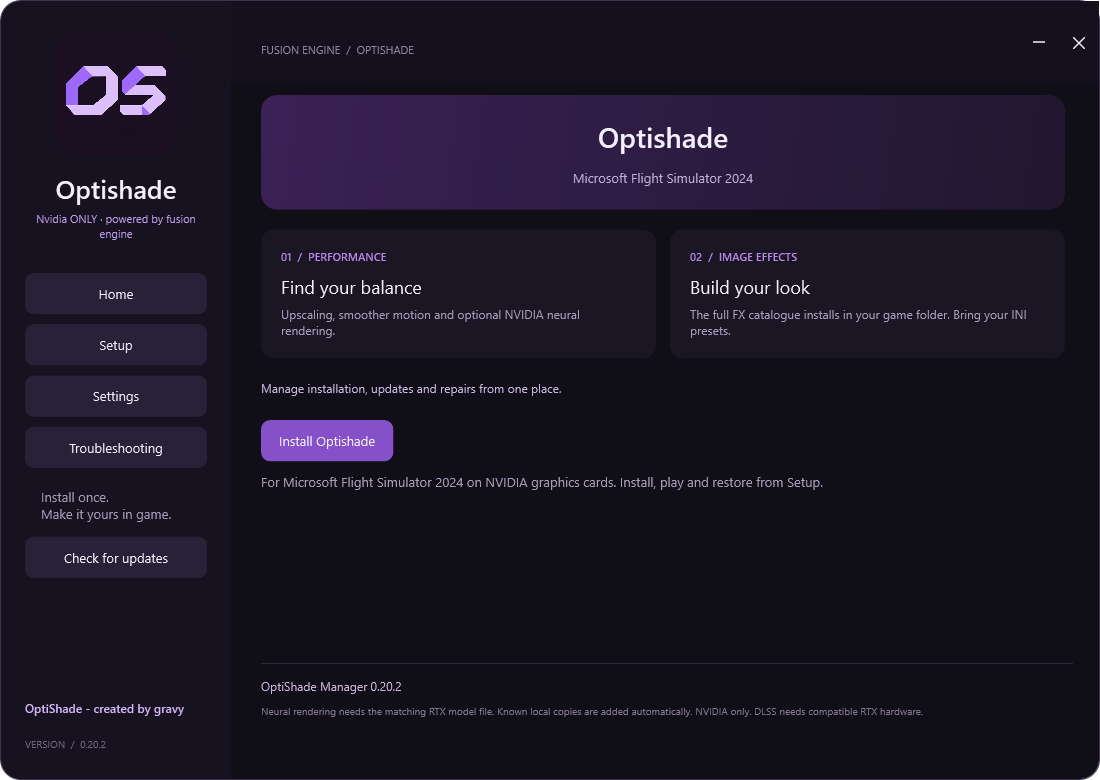
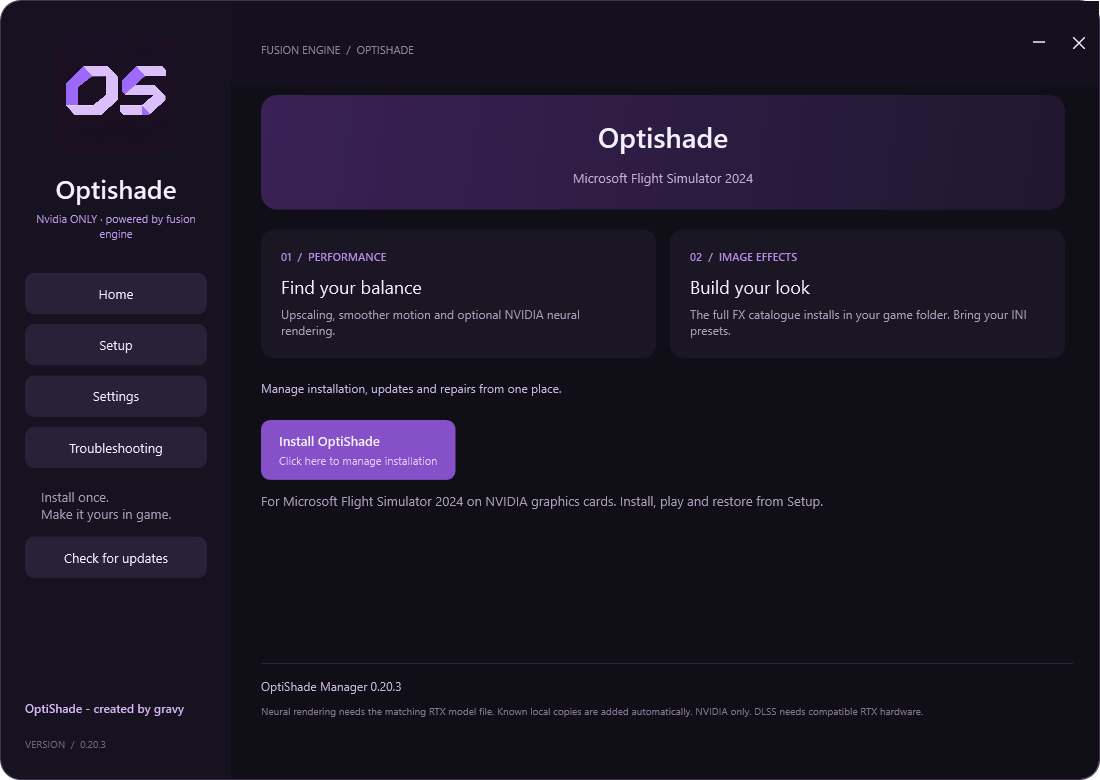
Release 0.20.3: Home installation status and recurring in-game update notices

Changed region(s): [[0.2164, 0.5231, 0.7418, 0.6462]]

diff --git a/installer/manager.xaml b/installer/manager.xaml
@@ -32,14 +32,14 @@
     <StackPanel DockPanel.Dock="Bottom" VerticalAlignment="Bottom">
      <TextBlock Text="OptiShade - created by gravy" Foreground="#D4B7F9" FontWeight="SemiBold" FontSize="12"/>
      
-     <TextBlock Text="VERSION  /  0.20.2" Foreground="#71657F" FontSize="10" Margin="0,22,0,0"/>
+     <TextBlock Text="VERSION  /  0.20.3" Foreground="#71657F" FontSize="10" Margin="0,22,0,0"/>
     </StackPanel>
     <Grid/>
    </DockPanel>
   </Border>
   <Grid Grid.Column="1" Margin="30,20,26,24">
    <Grid.RowDefinitions><RowDefinition Height="64"/><RowDefinition Height="*"/><RowDefinition Height="92"/></Grid.RowDefinitions>
-   <Grid x:Name="TitleBar" Margin="-30,-20,-26,0" Background="#15101D" Cursor="SizeAll" ToolTip="Drag here to move OptiShade"><TextBlock Text="FUSION ENGINE  /  OPTISHADE" Margin="30,12,0,0" Foreground="#91849F" FontSize="11" VerticalAlignment="Center"/><StackPanel Orientation="Horizontal" HorizontalAlignment="Right"><Button x:Name="Minimize" Cursor="Arrow" Background="Transparent" Padding="14,12" ToolTip="Minimize"><Path Data="M 0,5 L 12,5" Stroke="#F3EFFB" StrokeThickness="1.5" Width="12" Height="12"/></Button><Button x:Name="Close" Cursor="Arrow" Background="Transparent" Padding="14,12" ToolTip="Close"><Path Data="M 0,0 L 12,12 M 12,0 L 0,12" Stroke="#F3EFFB" StrokeThickness="1.5" Width="12" Height="12"/></Button></StackPanel></Grid>
+   <Grid x:Name="TitleBar" Margin="-30,-20,-26,0" Background="#15101D" Cursor="SizeAll"><TextBlock Text="FUSION ENGINE  /  OPTISHADE" Margin="30,12,0,0" Foreground="#91849F" FontSize="11" VerticalAlignment="Center"/><StackPanel Orientation="Horizontal" HorizontalAlignment="Right"><Button x:Name="Minimize" Cursor="Arrow" Background="Transparent" Padding="14,12" ToolTip="Minimize"><Path Data="M 0,5 L 12,5" Stroke="#F3EFFB" StrokeThickness="1.5" Width="12" Height="12"/></Button><Button x:Name="Close" Cursor="Arrow" Background="Transparent" Padding="14,12" ToolTip="Close"><Path Data="M 0,0 L 12,12 M 12,0 L 0,12" Stroke="#F3EFFB" StrokeThickness="1.5" Width="12" Height="12"/></Button></StackPanel></Grid>
    <Grid Grid.Row="1">
     <ScrollViewer x:Name="HomePage" VerticalScrollBarVisibility="Auto"><StackPanel Margin="0,10,8,16">
      <Border CornerRadius="16" Padding="26,23" Margin="0,0,0,20">
@@ -52,7 +52,7 @@
      </Grid>
      <TextBlock x:Name="Hardware" Text="Checking your hardware..." Foreground="#C9B6DF" FontSize="12" Margin="0,0,0,12"/>
 
-     <Button x:Name="OpenLibrary" Content="Install Optishade" Background="#8650C8" HorizontalAlignment="Left" Margin="0,12,0,12"/>
+     <Button x:Name="OpenLibrary" Background="#8650C8" HorizontalAlignment="Left" Margin="0,12,0,12"><StackPanel><TextBlock x:Name="HomeInstallState" Text="Install OptiShade" FontWeight="SemiBold"/><TextBlock Text="Click here to manage installation" FontSize="11" Foreground="#E1CEF7" Margin="0,4,0,0"/></StackPanel></Button>
      <TextBlock Text="For Microsoft Flight Simulator 2024 on NVIDIA graphics cards. Install, play and restore from Setup." Foreground="#AA9CB9" FontSize="13"/>
     </StackPanel></ScrollViewer>
     <Grid x:Name="LibraryPage" Visibility="Collapsed"><Grid.RowDefinitions><RowDefinition Height="Auto"/><RowDefinition Height="*"/></Grid.RowDefinitions>

diff --git a/tests/update-notice.cpp b/tests/update-notice.cpp
@@ -1,0 +1,19 @@
+#include <windows.h>
+#include <cfloat>
+#include <string>
+#include <vector>
+#include <cassert>
+#include <iostream>
+static ULONGLONG testNow=1000;
+#define GetTickCount64() testNow
+struct ImVec2{float x,y;ImVec2(float a=0,float b=0):x(a),y(b){}};
+#define IM_COL32(r,g,b,a) 0U
+struct Font{ImVec2 CalcTextSizeA(float size,float,float,const char* t){return ImVec2(float(strlen(t))*size*.5f,size);}};
+struct DrawList{std::vector<std::string> text;void AddText(Font*,float,ImVec2,unsigned,const char* t){text.push_back(t);}};
+namespace ImGui{static Font font;static DrawList draw;Font* GetFont(){return &font;}float GetFontSize(){return 16;}ImVec2 GetWindowPos(){return ImVec2(10,10);}float GetWindowWidth(){return 680;}ImVec2 GetItemRectMax(){return ImVec2(640,35);}DrawList* GetWindowDrawList(){return &draw;}}
+#if __has_include("../../OptiShadeFusion/optiscaler/OptiScaler/menu/optishade_update_notice.inl")
+#include "../../OptiShadeFusion/optiscaler/OptiScaler/menu/optishade_update_notice.inl"
+#else
+#include "../optiscaler/OptiScaler/menu/optishade_update_notice.inl"
+#endif
+int main(){using namespace OptiShadeUpdates;assert(NeedsFrame());nextCheck=301000;assert(!NeedsFrame());testNow=301000;assert(NeedsFrame());running=true;assert(!NeedsFrame());Draw(false);assert(running);running=false;available=false;DrawHeader();assert(ImGui::draw.text.empty());available=true;DrawHeader();assert(ImGui::draw.text.size()==2);assert(ImGui::draw.text[0]=="UPDATE AVAILABLE");assert(ImGui::draw.text[1]=="please check OptiShade manager");testNow+=900000;ImGui::draw.text.clear();DrawHeader();assert(ImGui::draw.text.size()==2);std::cout<<"PASS: periodic scheduling, no concurrent check, persistent two-line header notice\n";}

diff --git a/optiscaler/OptiScaler/menu/menu_common.cpp b/optiscaler/OptiScaler/menu/menu_common.cpp
@@ -7689,8 +7689,9 @@ void MenuCommon::RenderMainMenuWindow(RenderMenuContext& ctx)
     ImGui::SetNextWindowPos(ImVec2(15,15),ImGuiCond_FirstUseEver);
     bool visible=_isVisible;static bool saved=false;
     if(ImGui::Begin("optishade | fusion engine",&visible,ImGuiWindowFlags_NoCollapse | ImGuiWindowFlags_NoTitleBar)){
-        ImGui::SetWindowFontScale(1.75f);ImGui::TextUnformatted("optishade  0.20.2");ImGui::SetWindowFontScale(1.f);
+        ImGui::SetWindowFontScale(1.75f);ImGui::TextUnformatted("optishade  0.20.3");ImGui::SetWindowFontScale(1.f);
         ImGui::SameLine(ImGui::GetWindowWidth()-100);if(ImGui::SmallButton("Close"))visible=false;
+        OptiShadeUpdates::DrawHeader();
         ImGui::TextColored(ImGui::GetStyleColorVec4(ImGuiCol_CheckMark),"powered by fusion engine");
         ImGui::TextDisabled("created by gravy");ImGui::Spacing();
 

diff --git a/README.md b/README.md
@@ -4,14 +4,14 @@
   <p><strong>Microsoft Flight Simulator 2024</strong></p>
   <p>Created by gravy · Powered by Fusion Engine</p>
   <p>
-    <img src="https://img.shields.io/badge/Version-0.20.2-9755E9?style=flat-square" alt="Version 0.20.2">
+    <img src="https://img.shields.io/badge/Version-0.20.3-9755E9?style=flat-square" alt="Version 0.20.3">
     <img src="https://img.shields.io/badge/Windows-x64-272133?style=flat-square" alt="Windows x64">
     <img src="https://img.shields.io/badge/Graphics-NVIDIA-76B900?style=flat-square" alt="NVIDIA graphics">
   </p>
   <p><a href="https://github.com/GamingWithGravy/OptiShade/releases/latest"><strong>Download OptiShade Manager</strong></a> · <a href="docs/Tutorial.txt">Getting started</a> · <a href="docs/Features.txt">Features</a> · <a href="BUILDING.md">Build from source</a></p>
 </div>
 
-![OptiShade Manager 0.20.2](docs/images/installer.png)
+![OptiShade Manager 0.20.3](docs/images/installer.png)
 
 ## Your flight. Your look.
 
@@ -78,7 +78,7 @@ next installer from [Releases](https://github.com/GamingWithGravy/OptiShade/rele
 once. The source on main now supports both names; this fix is not inside the
 already-published 0.19.19 EXE.
 
-The installer checks GitHub automatically on launch and also provides a manual Check for updates button. The in-game overlay checks once per game session for newer stable releases. The overlay shows **Update available - open OptiShade Manager**. Setup shows an update button only when a newer verified release asset is available. Close MSFS, then click it: the update window verifies the download, replaces the installer, updates recorded MSFS installations while preserving presets and configuration, and offers Launch when complete (updates started from 0.20 still reopen setup automatically). The recovery copy is removed after a successful 0.20.2 update; failed updates retain it for recovery.
+The installer checks GitHub automatically on launch and also provides a manual Check for updates button. The in-game overlay checks at startup and every five minutes, retrying failed checks after one minute. The overlay shows **UPDATE AVAILABLE** and **please check OptiShade manager** beneath Close whenever a newer release is known. Setup shows an update button only when a newer verified release asset is available. Close MSFS, then click it: the update window verifies the download, replaces the installer, updates recorded MSFS installations while preserving presets and configuration, and offers Launch when complete (updates started from 0.20 still reopen setup automatically). The recovery copy is removed after a successful 0.20.2 update; failed updates retain it for recovery.
 
 **Repair OptiShade** restores embedded application defaults and keeps saved INI looks. **Restore original files** undoes the installation using that user's verified local backups. GitHub releases provide replacement OptiShade files, not original game files or another user's mods. Use Steam/Xbox repair for missing game files. Keep local OptiShade backups until you no longer need Restore.
 
@@ -93,3 +93,7 @@ Updates started from 0.20.1 use a windowed companion updater extracted into AppD
 ## Version 0.20.2
 
 OptiShade Manager adds staged payload validation, free-space checks and per-stage completion receipts. The companion updater requests administrator access, preserves the EXE location, removes its recovery copy after success and waits for Open manager or Close. Patch notes now match the main dark UI. Updates initiated by older versions use their existing worker; the new staged workflow applies to future updates initiated by 0.20.2.
+
+## Version 0.20.3
+
+Home reflects installation status and opens Setup to manage it. The upper drag tooltip is removed. In-game update checks repeat without blocking rendering, and a persistent two-line purple notice appears under Close in the menu. The updater remains borderless with Open manager and Close buttons.
